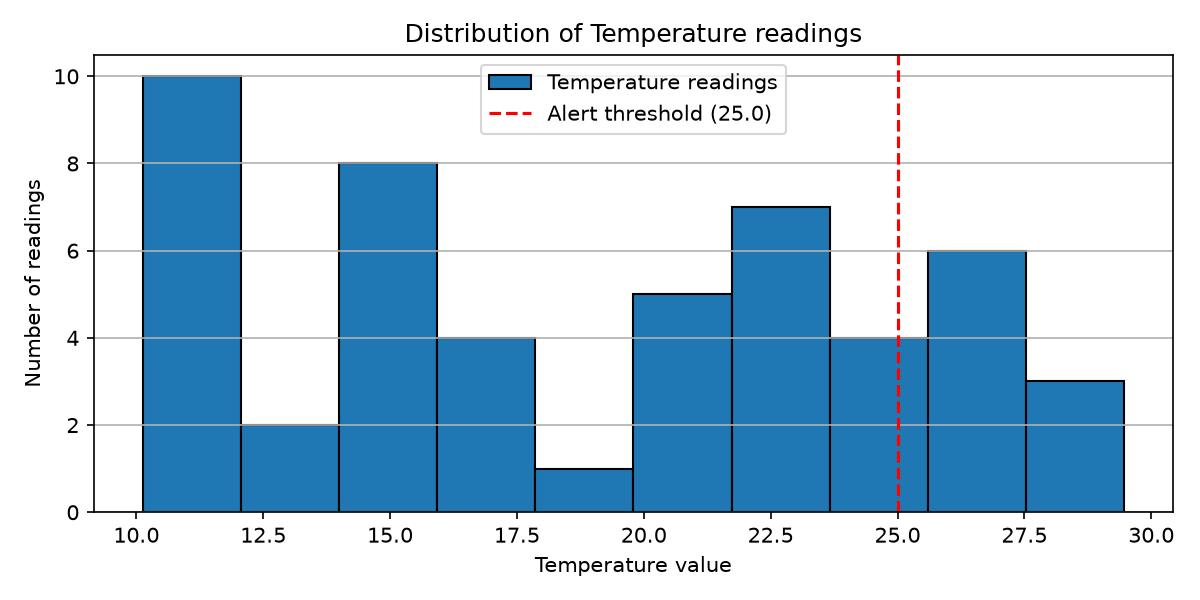
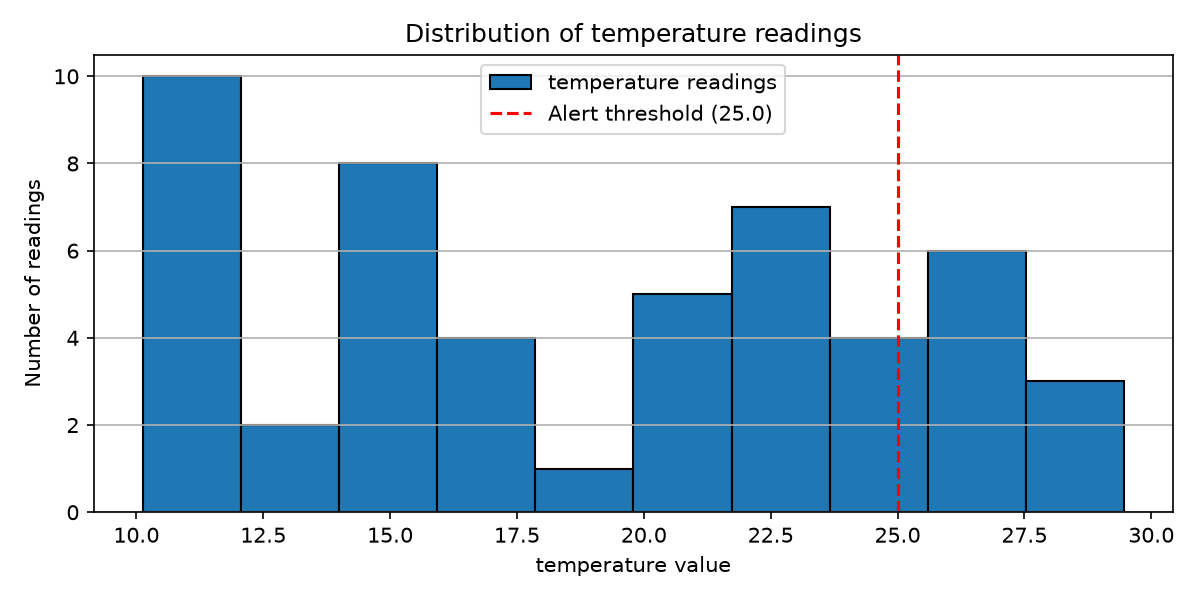
Add README and final results

diff --git a/README.md b/README.md
@@ -1,1 +1,60 @@
-# sensor-analysis
+# Sensor Data Analysis Tool
+
+A Python program that simulates sensor readings (or loads them from a CSV file),
+analyzes them with NumPy and visualizes them with Matplotlib.
+
+## Features
+- Generate simulated readings for any sensor type (e.g. temperature, light), or load readings from a CSV file
+- Statistics: number of readings, mean, minimum, maximum, standard deviation
+- Detects and lists the readings above an alert threshold
+- Line plot with the threshold line, and a histogram of the distribution (also saved as PNG)
+- Saves the readings to `readings.csv`
+- Handles invalid input with helpful messages (text instead of numbers, zero/negative counts,
+  minimum ≥ maximum, file errors)
+- Reproducible results thanks to `random.seed()`
+
+## Requirements
+- Python 3
+- NumPy and Matplotlib (listed in `requirements.txt`)
+
+## Installation
+```bash
+python -m pip install -r requirements.txt
+```
+
+## How to run
+```bash
+python sensor_monitor.py
+```
+Choose `1` to generate new readings or `2` to load an existing CSV file, then answer the questions.
+Close the graph windows to end the program.
+
+## Example
+```
+Choose 1 or 2: 1
+Sensor type (e.g. temperature, light): temperature
+Number of readings: 50
+Minimum value: 10
+Maximum value: 30
+Alert threshold: 25
+Saved 50 readings to readings.csv
+
+--- temperature readings ---
+Number of readings: 50
+Mean:               19.01
+Minimum:            10.13
+Maximum:            29.46
+Standard deviation: 5.81
+Readings above 25.0: 9
+```
+
+![Line plot](line_plot.png)
+![Histogram](histogram.png)
+
+## Files
+| File | Contents |
+|---|---|
+| `sensor_monitor.py` | the program |
+| `requirements.txt` | the packages the program needs |
+| `readings.csv` | generated readings: sample number, sensor type, reading |
+| `line_plot.png`, `histogram.png` | the saved graphs |
